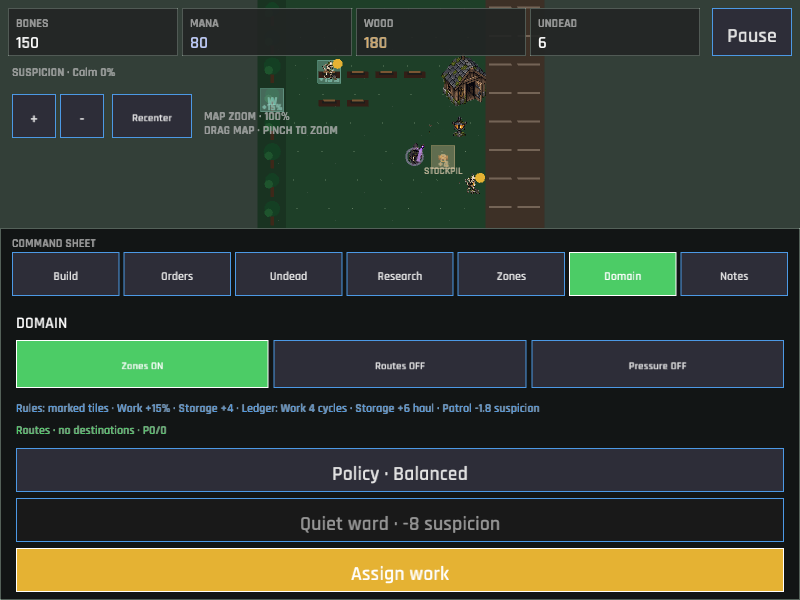
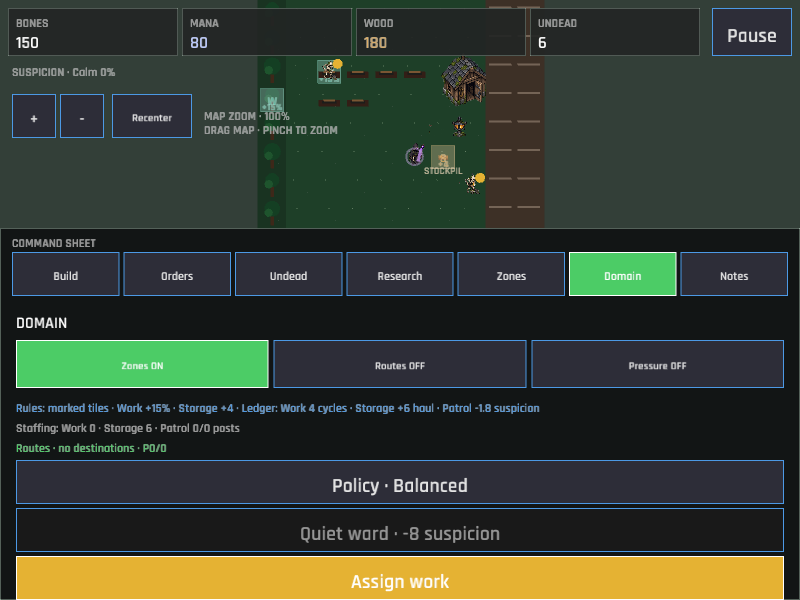
The district board counts its hands (Domain staffing readout)
The Domain panel showed aggregate workforce and patrol coverage, but it did not identify how many workers were assigned to each marked district. The readout now derives compact Work, Storage, and Patrol staffing counts from live assignments, keeps the desktop and compact layouts aligned, and documents the operational view with refreshed verification captures.

Changed region(s): [[0.0, 0.69, 1.0, 1.0]]

diff --git a/src/engine/districts.rs b/src/engine/districts.rs
@@ -1,7 +1,9 @@
 //! Domain Stewardship rules applied by marked district tiles.
 
 use crate::data::DistrictRules;
-use crate::state::{DistrictActivity, DistrictActivityKind, GameSession, Technology, ZoneKind};
+use crate::state::{
+    DistrictActivity, DistrictActivityKind, GameSession, JobKind, Technology, ZoneKind,
+};
 use macroquad_toolkit::grid::TilePos;
 
 const RECENT_ACTIVITY_LIMIT: usize = 8;
@@ -59,6 +61,22 @@ pub fn rule_summary(session: &GameSession, config: &DistrictRules) -> String {
     } else {
         format!("Rules: marked tiles · {}", rules.join(" · "))
     }
+}
+
+pub fn operations_summary(session: &GameSession) -> String {
+    let patrol_tiles = marked_tile_count(session, ZoneKind::Patrol);
+    let work_operators = operator_count(session, ZoneKind::Work);
+    let storage_operators = operator_count(session, ZoneKind::Storage);
+    let patrol_operators = operator_count(session, ZoneKind::Patrol);
+
+    format!(
+        "Staffing: Work {} · Storage {} · Patrol {}/{} post{}",
+        work_operators,
+        storage_operators,
+        patrol_operators,
+        patrol_tiles,
+        if patrol_tiles == 1 { "" } else { "s" }
+    )
 }
 
 pub fn tile_summary(
@@ -247,6 +265,29 @@ fn activity_label(entry: &DistrictActivity) -> String {
             format!("Patrol -{:.1} suspicion", entry.amount)
         }
     }
+}
+
+fn marked_tile_count(session: &GameSession, kind: ZoneKind) -> usize {
+    session
+        .world
+        .zones
+        .iter()
+        .filter(|zone| zone.kind == kind)
+        .map(|zone| zone.tiles.len())
+        .sum()
+}
+
+fn operator_count(session: &GameSession, kind: ZoneKind) -> usize {
+    session
+        .workforce
+        .workers
+        .iter()
+        .filter(|worker| match kind {
+            ZoneKind::Work => matches!(worker.assignment, JobKind::Dig | JobKind::Wood),
+            ZoneKind::Storage => worker.assignment == JobKind::Haul,
+            ZoneKind::Patrol => worker.assignment == JobKind::Guard,
+        })
+        .count()
 }
 
 fn rule_active(session: &GameSession, kind: ZoneKind) -> bool {

diff --git a/src/ui/responsive/panels.rs b/src/ui/responsive/panels.rs
@@ -379,6 +379,16 @@ fn draw_compact_domain_panel(
         0.0,
         dark::ACCENT,
     );
+    draw_text_block(
+        &districts::operations_summary(ctx.session),
+        sheet.x + 16.0,
+        sheet.y + 192.0,
+        sheet.w - 32.0,
+        18.0,
+        11.0,
+        0.0,
+        dark::TEXT_DIM,
+    );
     let (clear_routes, total_routes) = super::super::world_feedback::route_counts(ctx);
     let patrol_coverage = crate::engine::jobs::patrol_coverage(ctx.session);
     let route_summary = if total_routes == 0 {
@@ -395,7 +405,7 @@ fn draw_compact_domain_panel(
     draw_text_block(
         &route_summary,
         sheet.x + 16.0,
-        sheet.y + 194.0,
+        sheet.y + 212.0,
         sheet.w - 32.0,
         16.0,
         11.0,
@@ -409,7 +419,7 @@ fn draw_compact_domain_panel(
         },
     );
     if virtual_button(
-        Rect::new(sheet.x + 16.0, sheet.y + 220.0, sheet.w - 32.0, 44.0),
+        Rect::new(sheet.x + 16.0, sheet.y + 232.0, sheet.w - 32.0, 44.0),
         &format!("Policy · {}", ctx.session.stewardship_policy.label()),
         ctx.session.phase == GamePhase::Playing,
         ButtonTone::Secondary,
@@ -418,7 +428,7 @@ fn draw_compact_domain_panel(
         actions.push(UiAction::CycleStewardshipPolicy);
     }
     if virtual_button(
-        Rect::new(sheet.x + 16.0, sheet.y + 270.0, sheet.w - 32.0, 44.0),
+        Rect::new(sheet.x + 16.0, sheet.y + 280.0, sheet.w - 32.0, 44.0),
         "Quiet ward · -8 suspicion",
         ctx.session.phase == GamePhase::Playing
             && ctx.session.economy.ward_charges > 0
@@ -442,7 +452,7 @@ fn draw_compact_domain_panel(
         };
         let action = compact_advisory_action(ctx, target);
         if virtual_button(
-            Rect::new(sheet.x + 16.0, sheet.y + 320.0, sheet.w - 32.0, 44.0),
+            Rect::new(sheet.x + 16.0, sheet.y + 328.0, sheet.w - 32.0, 44.0),
             compact_advisory_label(alert.title),
             true,
             ButtonTone::Warning,

diff --git a/src/engine/districts/tests.rs b/src/engine/districts/tests.rs
@@ -85,6 +85,28 @@ fn rule_summary_names_only_marked_districts() {
 }
 
 #[test]
+fn operations_summary_names_staffing_by_district() {
+    let data = crate::data::GameData::load().unwrap();
+    let mut session = GameSession::new(&data.config);
+    let work_tile = session.world.plots[0].position;
+    session.world.zones = vec![
+        crate::state::Zone {
+            kind: ZoneKind::Work,
+            tiles: vec![work_tile],
+        },
+        crate::state::Zone {
+            kind: ZoneKind::Patrol,
+            tiles: vec![WorldState::guard_position(session.world.road_x)],
+        },
+    ];
+
+    assert_eq!(
+        operations_summary(&session),
+        "Staffing: Work 1 · Storage 0 · Patrol 0/1 post"
+    );
+}
+
+#[test]
 fn marked_tile_summary_explains_the_local_domain_rule() {
     let data = crate::data::GameData::load().unwrap();
     let mut session = GameSession::new(&data.config);

diff --git a/src/ui/domain.rs b/src/ui/domain.rs
@@ -315,6 +315,16 @@ fn draw_stewardship_readout(
         0.0,
         dark::ACCENT,
     );
+    draw_text_block(
+        &districts::operations_summary(ctx.session),
+        rect.x + 24.0,
+        rect.y + 414.0,
+        440.0,
+        18.0,
+        11.0,
+        0.0,
+        dark::TEXT_DIM,
+    );
 
     let operational = alerts::collect(ctx.session, ctx.data);
     let detail = operational.first().map_or_else(
@@ -329,7 +339,7 @@ fn draw_stewardship_readout(
             detail
         ),
         rect.x + 24.0,
-        rect.y + 414.0,
+        rect.y + 436.0,
         440.0,
         38.0,
         12.0,

diff --git a/docs/visual-direction-and-ui-plan.md b/docs/visual-direction-and-ui-plan.md
@@ -111,7 +111,7 @@ Do not add conventional food and housing needs automatically. If later design re
 
 ## Current prototype and remaining direction
 
-The current game has a 10 × 8 world, six authored grave positions, one starting skeleton, three building types, jobs, repeat priorities, corpse qualities, suspicion events, versioned save support, a selectable necromancer, positioned buildings, four research technologies, editable work areas, deterministic worker routing, route-aware Work/Storage/Patrol destinations, stable multi-post patrol coverage, reachable patrol coverage accounting, aggregated storage and patrol districts, an Ossuary Kiln production recipe with a three-cycle queue, a district overview with a stateful minimap, actionable operational alerts with a seven-entry History drawer, Domain Stewardship overlays for zones, worker routes, and road pressure, persistent Balanced, Secure, and Harvest policies for automated workers, location-aware Work/Storage/Patrol district rules that affect workers operating on marked tiles after Domain Stewardship, actionable Work district staffing advisories, a marked-tile district inspector, a save-persistent district performance ledger with first-use Field Notes and a bounded recent activity trail, and touch camera pan/pinch with visible zoom and recenter controls on compact viewports. The sprite sheet is registered through the texture manifest and falls back to an obvious placeholder when unavailable. The current victory condition ends the slice after the small cemetery is established; larger district simulation remains future work.
+The current game has a 10 × 8 world, six authored grave positions, one starting skeleton, three building types, jobs, repeat priorities, corpse qualities, suspicion events, versioned save support, a selectable necromancer, positioned buildings, four research technologies, editable work areas, deterministic worker routing, route-aware Work/Storage/Patrol destinations, stable multi-post patrol coverage, reachable patrol coverage accounting, aggregated storage and patrol districts, an Ossuary Kiln production recipe with a three-cycle queue, a district overview with a stateful minimap, actionable operational alerts with a seven-entry History drawer, Domain Stewardship overlays for zones, worker routes, and road pressure, persistent Balanced, Secure, and Harvest policies for automated workers, location-aware Work/Storage/Patrol district rules that affect workers operating on marked tiles after Domain Stewardship, actionable Work district staffing advisories, a marked-tile district inspector, a save-persistent district performance ledger with first-use Field Notes and a bounded recent activity trail, a Domain staffing summary for Work, Storage, and Patrol, and touch camera pan/pinch with visible zoom and recenter controls on compact viewports. The sprite sheet is registered through the texture manifest and falls back to an obvious placeholder when unavailable. The current victory condition ends the slice after the small cemetery is established; larger district simulation remains future work.
 
 | Implemented foundation | Remaining direction |
 | --- | --- |
@@ -135,7 +135,7 @@ Existing saves already receive deterministic defaults for positioned buildings, 
 3. **First research transition (implemented for the slice).** Binding Routines and the research chain gate repeat priorities, placement, work areas, logistics, and domain controls. Versioned saves preserve the new state with deterministic defaults.
 4. **Movement and animation readability (implemented).** Workers visibly walk tile by tile, hauling has a real carried-resource phase, jobs expose procedural tool motion, and the necromancer walks, retargets, cancels, and pulses while ritualizing.
 5. **First colony slice (implemented for the current slice).** The Ossuary Kiln completes a material → construction → production chain after Ossuary Logistics, workers route around basic obstructions before working, and painted Work, Storage, and Patrol areas select nearby destinations. The minimap and worker/grave cues provide first-pass domain feedback while keeping the original cemetery recognizable as part of the expanded settlement.
-6. **Scale and domain controls (implemented for the current slice).** The settlement overview includes useful operational alerts with source selection, Domain Stewardship controls for district marks, worker routes, and road-pressure coverage, actionable Work district staffing guidance, marked-tile rule inspection, persistent Balanced, Secure, and Harvest policies that affect automated worker choices, additive Work, Storage, and Patrol rules that make marked districts operationally meaningful, and a save-persistent performance ledger with a bounded activity trail that records their real contribution. Future work can add deeper district simulation while validating worker selection and performance before growing the content set.
+6. **Scale and domain controls (implemented for the current slice).** The settlement overview includes useful operational alerts with source selection, Domain Stewardship controls for district marks, worker routes, and road-pressure coverage, actionable Work district staffing guidance, marked-tile rule inspection, persistent Balanced, Secure, and Harvest policies that affect automated worker choices, additive Work, Storage, and Patrol rules that make marked districts operationally meaningful, a save-persistent performance ledger with a bounded activity trail that records their real contribution, and a compact staffing summary that compares district operators with marked Patrol posts. Future work can add deeper district simulation while validating worker selection and performance before growing the content set.
 7. **Responsive command surface (implemented for the current slice).** Compact viewports use a full-window logical canvas, preserve the world above a bottom sheet, and expose the same touch-first actions for selection, management, events, pause, placement recovery, and field notes. Verification captures include the 800 × 600 composition and a 360 × 640 narrow-navigation stress state.
 8. **Touch camera navigation (implemented for the current slice).** Compact viewports provide visible zoom and recenter controls plus gesture-aware map pan and pinch zoom. Claimed map gestures suppress accidental selection and command activation when the contact ends.
 

diff --git a/gdd.md b/gdd.md
@@ -141,6 +141,9 @@ step. The ledger also keeps the eight most recent meaningful district effects,
 with their measured contribution and elapsed time, so the Field Notes archive
 can show a compact chronology alongside the totals. Older saves receive an
 empty activity trail without losing their existing ledger values.
+The Domain readout also reports current staffing by district: Work operators,
+Storage haulers, and Patrol guards compared with the number of marked patrol
+posts, so a player can see coverage pressure before opening a separate board.
 
 ### 5.4 Determinism and saves
 
@@ -216,6 +219,9 @@ pressure independently readable on the same world-first map. A blocker can be
 located from the readout, while **Quiet ward** remains a visible response when
 charges and suspicion make it applicable. A touch-sized policy control cycles
 between Balanced, Secure, and Harvest and states each policy's effect.
+The readout pairs its rule and ledger lines with a compact staffing summary for
+Work, Storage, and Patrol, keeping district needs visible beside the policy and
+pressure controls.
 
 ## 8. Toolkit mapping
 
